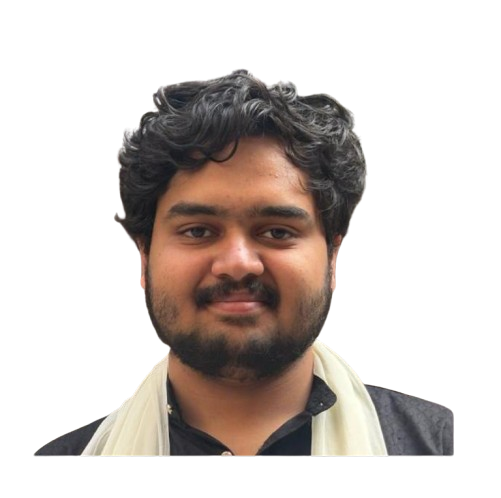
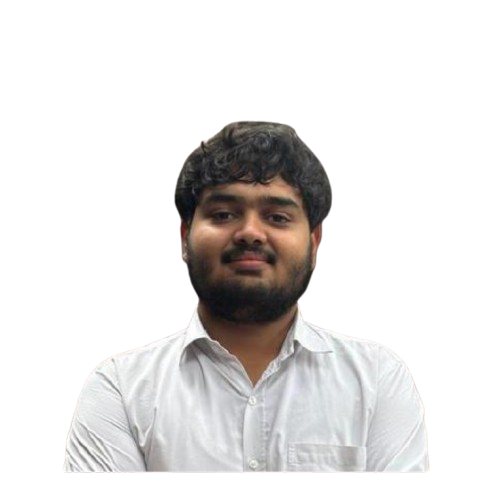
Added the images to programs showcase section, made changes in footer section.

diff --git a/src/components/StudentPortfolios.tsx b/src/components/StudentPortfolios.tsx
@@ -1,131 +1,3 @@
-// import React from 'react';
-// import { Github, FolderGit2, Linkedin } from 'lucide-react'; // Added Linkedin Import
-
-// // 1. ADDED LINKEDIN LINKS TO DATA
-// const portfolioData = [
-//   {
-//     // student: "Rehan Nadaf",
-//     role: "CAD Design Intern",
-//     //project: "Gearbox Stress Analysis",
-//     project: "Rehan Nadaf",
-//     description: "A complete repository containing the FreeCAD files, Python automation scripts, and FEA simulation results.",
-//     link: "#",
-//     linkedin: "https://www.linkedin.com/in/rehan-nadaf?utm_source=share&utm_campaign=share_via&utm_content=profile&utm_medium=android_app", // Add real link here
-//     image: "/images/students/Rehan_Nadaf.png"
-//   },
-//   {
-//     // student: "Anish Patil",
-//     role: "CAD Design Intern",
-//     // project: "IoT Assembly Line",
-//     project: "Anish Patil",
-//     description: "Source code for the digital twin dashboard, including the MQTT broker setup and real-time visualization components.",
-//     link: "#",
-//     linkedin: "https://www.linkedin.com/in/anish-patil-kodarkar?utm_source=share&utm_campaign=share_via&utm_content=profile&utm_medium=android_app",
-//     image: "/images/students/Anish_Patil.png"
-//   },
-//   {
-//     // student: "Krishna Manvatkar",
-//     role: "CAD Design Intern",
-//     // project: "Parametric Drone Frame",
-//     project: "Krushna Manwatkar",
-//     description: "Python macros for generating variable-size drone frames automatically based on payload weight inputs.",
-//     link: "#",
-//     linkedin: "https://www.linkedin.com/in/krushna-manwatkar-598aa5337?utm_source=share&utm_campaign=share_via&utm_content=profile&utm_medium=android_app",
-//     image: "/images/students/Krushna_Manwatkar.png"
-//   }
-// ];
-
-// const StudentPortfolios: React.FC = () => {
-//   return (
-//     <section className="py-24 bg-brand-cream">
-//       <div className="max-w-7xl mx-auto px-4 sm:px-6 lg:px-8">
-        
-//         <div className="text-center mb-20">
-//           <h2 className="text-4xl md:text-5xl font-extrabold text-slate-900 tracking-tight">
-//             Student Portfolios
-//           </h2>
-//           <p className="mt-4 text-lg text-slate-500 max-w-2xl mx-auto">
-//             Our students don't just learn—they build. Explore the actual code and designs on GitHub.
-//           </p>
-//         </div>
-
-//         <div className="grid grid-cols-1 md:grid-cols-2 lg:grid-cols-3 gap-10 mt-8">
-          
-//           {portfolioData.map((item, index) => (
-//             <div key={index} className="relative group">
-              
-//               {/* --- FLOATING IMAGE --- */}
-//               <div className="absolute -top-16 left-8 z-20">
-//                 <div className="w-28 h-28 rounded-full border-4 border-slate-50 shadow-lg overflow-hidden bg-white transition-transform duration-500 ease-out group-hover:scale-125">
-//                   <img
-//                     src={item.image}
-//                     // alt={item.student}
-//                     className="w-full h-full object-cover"
-//                   />
-//                 </div>
-//               </div>
-
-//               {/* --- BLUE CARD --- */}
-//               <div className="bg-brand-azure rounded-3xl p-8 pt-12 h-full relative overflow-hidden shadow-xl transition-transform duration-300 group-hover:-translate-y-2 flex flex-col">
-//                 <Github className="absolute -bottom-6 -right-6 w-48 h-48 text-white opacity-10 transform rotate-12 group-hover:scale-110 transition-transform duration-500 pointer-events-none" />
-
-//                 <div className="relative z-10 flex flex-col h-full">
-                  
-//                   {/* Icon Top Right */}
-//                   <div className="flex justify-end mb-2">
-//                     <div className="bg-white/20 w-10 h-10 rounded-xl flex items-center justify-center backdrop-blur-sm">
-//                       <FolderGit2 className="w-5 h-5 text-white" />
-//                     </div>
-//                   </div>
-
-//                   {/* Text Content */}
-//                   <h3 className="text-2xl font-bold text-white mb-1 leading-tight">
-//                     {item.project}
-//                   </h3>
-//                   {/* <div className="text-blue-200 font-medium mb-4 text-sm uppercase tracking-wide">
-//                     by {item.student}
-//                   </div> */}
-//                   <p className="text-blue-50 leading-relaxed mb-8 text-sm">
-//                     {item.description}
-//                   </p>
-
-//                   {/* --- 2. NEW BUTTON GRID (Side by Side) --- */}
-//                   <div className="mt-auto grid grid-cols-5 gap-3">
-                    
-//                     {/* Repository Button (Takes up 3/5 width) */}
-//                     <a
-//                       href={item.link}
-//                       className="col-span-3 inline-flex items-center justify-center px-4 py-3 bg-white text-brand-azure font-bold rounded-xl hover:bg-blue-50 transition-colors shadow-md group-hover:shadow-lg text-sm"
-//                     >
-//                       <Github className="w-4 h-4 mr-2" />
-//                       Repository
-//                     </a>
-
-//                     {/* LinkedIn Button (Takes up 2/5 width) */}
-//                     <a
-//                       href={item.linkedin}
-//                       className="col-span-2 inline-flex items-center justify-center px-4 py-3 bg-brand-azure/50 border border-blue-400/30 text-white font-bold rounded-xl hover:bg-blue-500 hover:border-white/50 transition-colors shadow-md text-sm backdrop-blur-sm"
-//                     >
-//                       <Linkedin className="w-4 h-4 mr-2" />
-//                       Connect
-//                     </a>
-
-//                   </div>
-
-//                 </div>
-//               </div>
-//             </div>
-//           ))}
-
-//         </div>
-//       </div>
-//     </section>
-//   );
-// };
-
-// export default StudentPortfolios;
-
-
 import React, { useRef, useState, useEffect } from 'react';
 import { Github, FolderGit2, Linkedin, ChevronLeft, ChevronRight } from 'lucide-react';
 
@@ -162,7 +34,7 @@ const portfolioData = [
   {
     role: "Mesh Design Intern",
     project: "Aryan Dixit",
-    link: "#",
+    link: "https://github.com/aryanresearch10eservedriver/Internship_Validus_Tech_Gmsh.git",
     linkedin: "https://www.linkedin.com/in/aryan-dixit-vd?utm_source=share&utm_campaign=share_via&utm_content=profile&utm_medium=android_app",
     image: "/images/students/Aryan_Dixit.png"
   },

diff --git a/src/components/Footer.tsx b/src/components/Footer.tsx
@@ -1,84 +1,3 @@
-// import React from 'react';
-// import { Instagram, Linkedin, Twitter, Mail } from 'lucide-react';
-// import { Link } from 'react-router-dom'; // 1. Import Link
-
-// const Footer: React.FC = () => {
-//   return (
-//     // 2. Added id="contact" here so the Navbar scroll works
-//     <footer id="contact" className="bg-brand-cream border-t border-gray-200 pt-16 pb-8">
-//       <div className="max-w-7xl mx-auto px-4 sm:px-6 lg:px-8">
-//         <div className="grid grid-cols-1 md:grid-cols-4 gap-12 mb-12">
-          
-//           <div className="col-span-1 md:col-span-1">
-//              <div className="flex items-center gap-1 h-6 mb-4">
-//                 <img 
-//          src="/images/logos/ProBUILD2.png" 
-//          alt="ProBUILD Logo" 
-//          className="h-6 w-auto object-contain" // Slightly smaller for footer
-//       />
-//                 <span className="font-semibold text-3xl tracking-tight text-slate-900 ml-1">
-//                   ProBUILD
-//                 </span>
-//              </div>
-//             <p className="text-slate-500 text-sm leading-relaxed">
-//               Empowering the next generation of digital engineers through project-based learning and industry mentorship.
-//             </p>
-//           </div>
-
-          {/* <div>
-            <h4 className="font-bold text-slate-900 mb-4">Programs</h4>
-            <ul className="space-y-2 text-sm text-slate-600"> */}
-              {/* 3. Updated these to use Link to your new page */}
-              {/* <li><Link to="/cad-pathway" className="hover:text-brand-blue">FreeCAD Nano Degree</Link></li>
-              <li><Link to="/cad-pathway" className="hover:text-brand-blue">Digital Twin Diploma</Link></li>
-              <li><Link to="/cad-pathway" className="hover:text-brand-blue">Automation Basics</Link></li>
-            </ul>
-          </div> */}
-
-          {/* <div>
-            <h4 className="font-bold text-slate-900 mb-4">Company</h4>
-            <ul className="space-y-2 text-sm text-slate-600"> */}
-              {/* 4. Added '/' before # so these work even if you are on the About page */}
-              {/* <li><a href="/#philosophy" className="hover:text-brand-blue">Philosophy</a></li>
-              <li><a href="/#stories" className="hover:text-brand-blue">Success Stories</a></li>
-              <li><a href="/about" className="hover:text-brand-blue">About Us</a></li>
-            </ul>
-          </div> */}
-
-          {/* <div>
-            <h4 className="font-bold text-slate-900 mb-4">Connect</h4>
-            <div className="flex space-x-4">
-              <a href="https://www.linkedin.com/company/probuildglobal/" target="_blank" rel="noopener noreferrer" className="w-10 h-10 rounded-full bg-slate-100 flex items-center justify-center text-slate-600 hover:bg-brand-azure hover:text-white transition-colors">
-                <Linkedin size={18} />
-              </a>
-              <a href="https://www.instagram.com/probuild.in?igsh=YnN4cHdyODBuNzc2" className="w-10 h-10 rounded-full bg-slate-100 flex items-center justify-center text-slate-600 hover:bg-brand-red hover:text-white transition-colors">
-                <Instagram size={18} />
-              </a>
-              
-              <a href="https://mail.google.com/mail/?view=cm&fs=1&to=probuild.vet@gmail.com"
-                target="_blank"
-                 rel="noopener noreferrer" className="w-10 h-10 rounded-full bg-slate-100 flex items-center justify-center text-slate-600 hover:bg-brand-yellow hover:text-white transition-colors">
-                <Mail size={18} />
-              </a>
-            </div>
-          </div>
-        </div>
-
-        <div className="border-t border-gray-100 pt-8 flex flex-col md:flex-row justify-between items-center text-xs text-slate-400">
-          <p>&copy; 2026 ProBUILD EdTech. All rights reserved.</p>
-          <div className="flex space-x-6 mt-4 md:mt-0">
-            <a href="#" className="hover:text-slate-600">Privacy Policy</a>
-            <a href="#" className="hover:text-slate-600">Terms of Service</a>
-          </div>
-        </div>
-      </div>
-    </footer>
-  );
-};
-
-export default Footer; */}
-
-
 import React from 'react';
 import { Instagram, Linkedin, Mail } from 'lucide-react';
 // Link is imported but not currently used since we deleted the internal links, 
@@ -113,18 +32,18 @@ const Footer: React.FC = () => {
           {/* --- MIDDLE SECTION: Quick Links --- */}
           <div>
             <h4 className="font-semibold text-slate-900 mb-4">Quick Links</h4>
-            <ul className="space-y-2 text-sm text-slate-600">
+            <ul className="space-y-2 text-sm text-slate-500">
               <li>
-                <Link to="/" className="hover:text-brand-blue transition-colors">Home</Link>
+                <Link to="/" className="hover:text-brand-yellow transition-colors">Home</Link>
               </li>
               <li>
-                <Link to="/cad-pathway" className="hover:text-brand-blue transition-colors">CAD Pathway</Link>
+                <Link to="/cad-pathway" className="hover:text-brand-red transition-colors">Pathways</Link>
               </li>
               <li>
-                <Link to="/about" className="hover:text-brand-blue transition-colors">About Us</Link>
+                <Link to="/about" className="hover:text-brand-azure transition-colors">About Us</Link>
               </li>
               <li>
-                <Link to="/contact" className="hover:text-brand-blue transition-colors">Contact Us</Link>
+                <Link to="/contact" className="hover:text-brand-yellow transition-colors">Contact Us</Link>
               </li>
             </ul>
           </div>
@@ -132,12 +51,12 @@ const Footer: React.FC = () => {
           {/* --- MIDDLE SECTION: Explore --- */}
           <div>
             <h4 className="font-semibold text-slate-900 mb-4">Explore</h4>
-            <ul className="space-y-2 text-sm text-slate-600">
+            <ul className="space-y-2 text-sm text-slate-500">
               <li>
-                <a href="/#philosophy" className="hover:text-brand-blue transition-colors">Our Philosophy</a>
+                <a href="/#philosophy" className="hover:text-brand-yellow transition-colors">Our Philosophy</a>
               </li>
               <li>
-                <a href="/#roadmap" className="hover:text-brand-blue transition-colors">Learning Roadmap</a>
+                <a href="/#roadmap" className="hover:text-brand-red transition-colors">Learning Roadmap</a>
               </li>
             </ul>
           </div>

diff --git a/src/components/ProgramShowcase.tsx b/src/components/ProgramShowcase.tsx
@@ -32,7 +32,7 @@ const programs: Program[] = [
     highlight: "Foundation",
     highlightColor: "text-yellow-500",
     suffix: "Nano Degree",
-    image: "/images/image1.jpg",
+    image: "/images/Foundation.png",
     badge: "Admissions Open",
     badgeColor: "bg-green-500",
     description: "Master open-source parametric modeling. This course creates the bedrock for Diploma Level I. Built for students who want to move beyond theory.",
@@ -42,7 +42,7 @@ const programs: Program[] = [
     prereq1: "No prerequisites required",
     prereq2: "Open to all backgrounds",
     brochureLink: "/brochures/Foundations.pdf",
-    enrollLink: "https://forms.gle/Hua2suU1dw2Xfj6d9",
+    enrollLink: "https://forms.gle/2c8qh9YyD3mA9L228",
     isOpen: true
   },
   {
@@ -52,7 +52,7 @@ const programs: Program[] = [
     highlight: "Intermediate",
     highlightColor: "text-brand-red",
     suffix: "Nano Degree",
-    image: "/images/image2.jpg",
+    image: "/images/Intermediate.png",
     badge: "Admissions Open",
     badgeColor: "bg-green-500",
     description: "Take your skills to the professional level. Focus on complex assembly simulations, FEA analysis, and Python scripting for automation.",
@@ -62,17 +62,17 @@ const programs: Program[] = [
     prereq1: "Foundation Degree",
     prereq2: "Basic Physics/Math",
     brochureLink: "/brochures/Intermediate.pdf",
-    enrollLink: "https://forms.gle/3VP7YvHvKBQMAjrE7",
+    enrollLink: "https://forms.gle/5VVKpNXb8tMDFP9d6",
     isOpen: true
   },
   {
     id: 3,
     category: "SPECIALIZED MODULE",
-    title: "Gmesh",
+    title: "Gmsh",
     highlight: "Meshing",
     highlightColor: "text-brand-azure",
     suffix: "Expert",
-    image: "/images/image3.jpg",
+    image: "/images/Gmsh.png",
     badge: "Admissions Closed",
     badgeColor: "bg-red-500",
     description: "Deep dive into high-quality mesh generation for CFD and FEA. Learn parametric scripting for automated mesh workflows.",
@@ -92,7 +92,7 @@ const programs: Program[] = [
     highlight: "Multiphysics",
     highlightColor: "text-green-600",
     suffix: "Solver",
-    image: "/images/image4.jpg",
+    image: "/images/Elmer.png",
     badge: "Admissions Closed",
     badgeColor: "bg-red-500",
     description: "Master open-source multiphysics simulation. Solve complex fluid-structure interactions and electromagnetic problems.",
@@ -121,11 +121,11 @@ const ProgramCard: React.FC<{ program: Program }> = ({ program }) => {
         className="cursor-pointer group"
       >
         {/* Image Section */}
-        <div className="relative h-64 bg-slate-200">
+        <div className="relative h-64 overflow-hidden">
           <img 
             src={program.image} 
             alt={program.title} 
-            className="w-full h-full object-cover transition-transform duration-700 group-hover:scale-105"
+            className="w-full h-full object-cover object-center transition-transform duration-700 group-hover:scale-105"
           />
           <div className={`absolute top-4 left-4 ${program.badgeColor} text-white text-xs font-bold px-3 py-1.5 rounded-full uppercase tracking-wide shadow-md`}>
             {program.badge}
